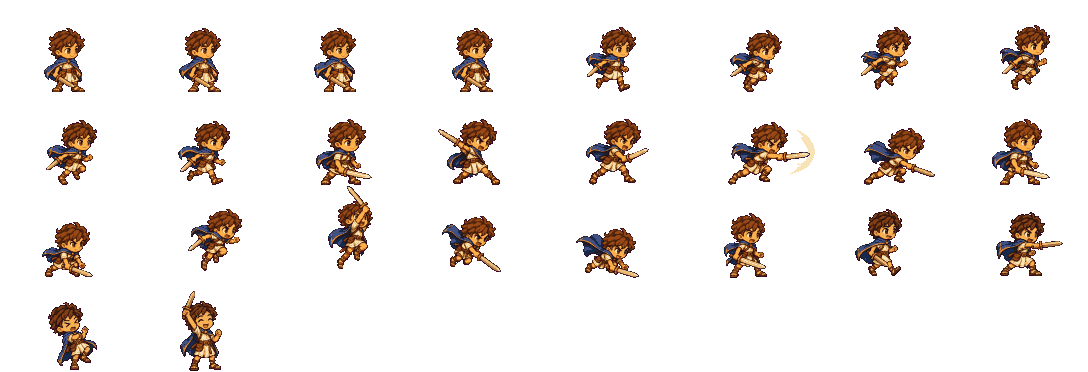
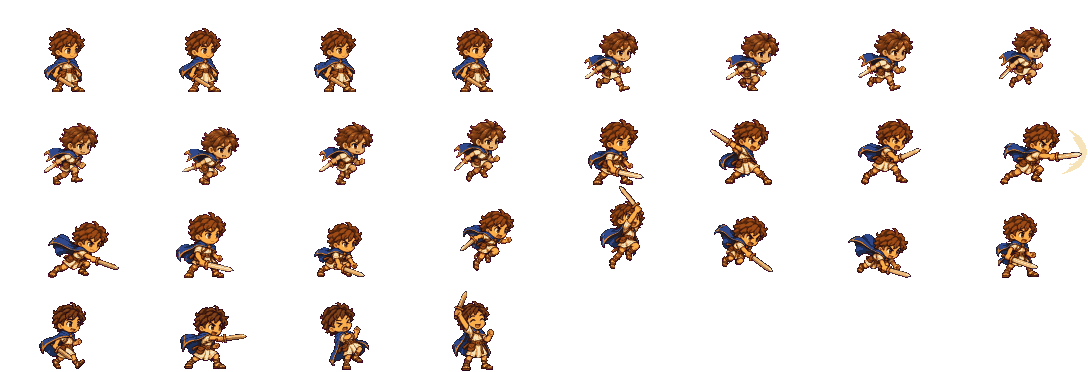
Hero: new 8-frame run cycle

diff --git a/src/core/anim/heroSheet.ts b/src/core/anim/heroSheet.ts
@@ -21,22 +21,24 @@ export const HERO_FRAMES = {
   run_3: 7,
   run_4: 8,
   run_5: 9,
-  slash_0: 10,
-  slash_1: 11,
-  slash_2: 12,
-  slash_3: 13,
-  slash_4: 14,
-  slash_5: 15,
-  power_0: 16,
-  power_1: 17,
-  power_2: 18,
-  power_3: 19,
-  power_4: 20,
-  power_5: 21,
-  walk: 22,
-  thrust: 23,
-  hurt: 24,
-  victory: 25,
+  run_6: 10,
+  run_7: 11,
+  slash_0: 12,
+  slash_1: 13,
+  slash_2: 14,
+  slash_3: 15,
+  slash_4: 16,
+  slash_5: 17,
+  power_0: 18,
+  power_1: 19,
+  power_2: 20,
+  power_3: 21,
+  power_4: 22,
+  power_5: 23,
+  walk: 24,
+  thrust: 25,
+  hurt: 26,
+  victory: 27,
 } as const;
 
 export type HeroFrame = keyof typeof HERO_FRAMES;

diff --git a/src/core/anim/heroClips.ts b/src/core/anim/heroClips.ts
@@ -29,6 +29,8 @@ export const HERO_CLIPS = {
       f('run_3', 75),
       f('run_4', 75),
       f('run_5', 75),
+      f('run_6', 75),
+      f('run_7', 75),
     ],
     { loop: true },
   ),

diff --git a/scripts/art/process_hero.py b/scripts/art/process_hero.py
@@ -51,7 +51,11 @@ class Strip:
 
 STRIPS = [
     Strip('idle.webp', ['idle_0', 'idle_1', 'idle_2', 'idle_3'], 1.0),
-    Strip('run.webp', ['run_0', 'run_1', 'run_2', 'run_3', 'run_4', 'run_5'], 0.77),
+    Strip(
+        'run.webp',
+        ['run_0', 'run_1', 'run_2', 'run_3', 'run_4', 'run_5', 'run_6', 'run_7'],
+        0.48,
+    ),
     Strip(
         'slash.webp',
         ['slash_0', 'slash_1', 'slash_2', 'slash_3', 'slash_4', 'slash_5'],

diff --git a/art/README.md b/art/README.md
@@ -7,7 +7,7 @@ the game only uses the processed sheet.
 | File                 | Frames                                                                             |
 | -------------------- | ---------------------------------------------------------------------------------- |
 | `idle.webp`          | `idle_0`–`idle_3` (breathing loop)                                                 |
-| `run.webp`           | `run_0`–`run_5`                                                                    |
+| `run.webp`           | `run_0`–`run_7`                                                                    |
 | `slash.webp`         | `slash_0`–`slash_5` (ready, anticipation, swing, impact, follow-through, recovery) |
 | `slash-powered.webp` | `power_0`–`power_5` (crouch, leap, overhead, strike…)                              |
 | `poses.webp`         | (unused idle), `walk`, `thrust`, `hurt`, `victory`                                 |
